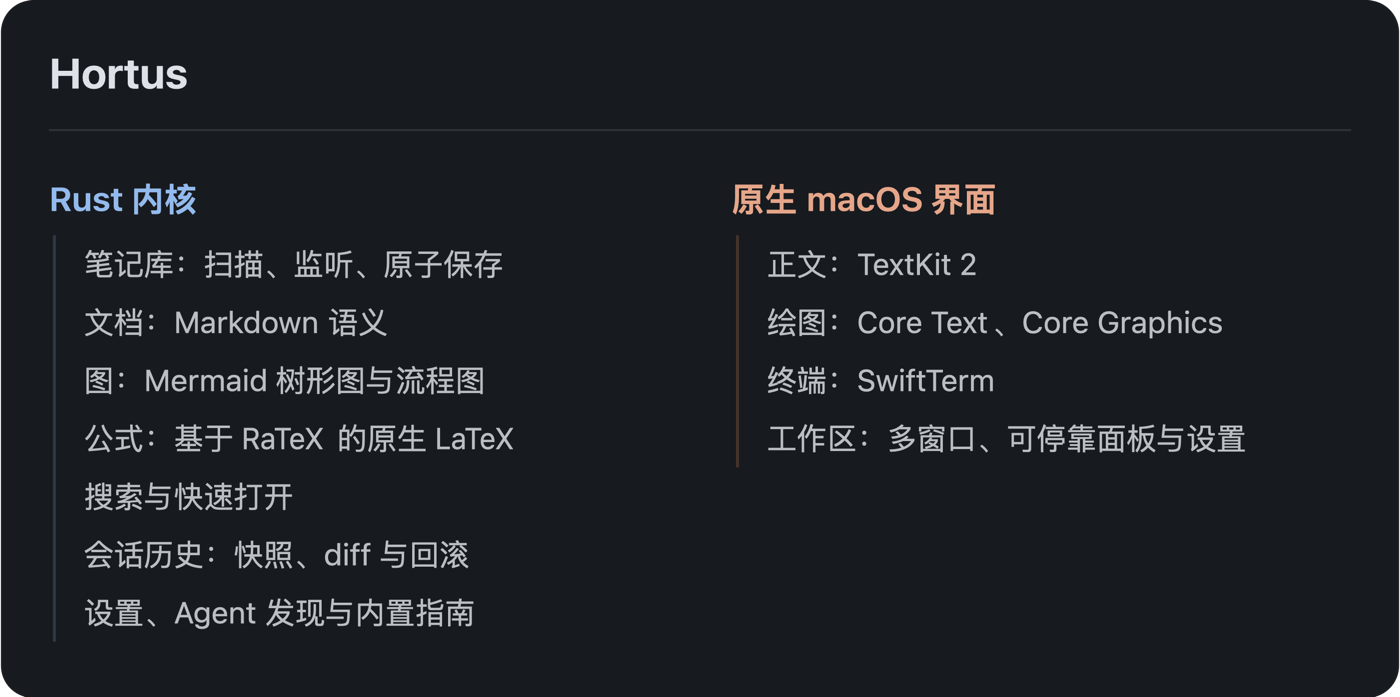
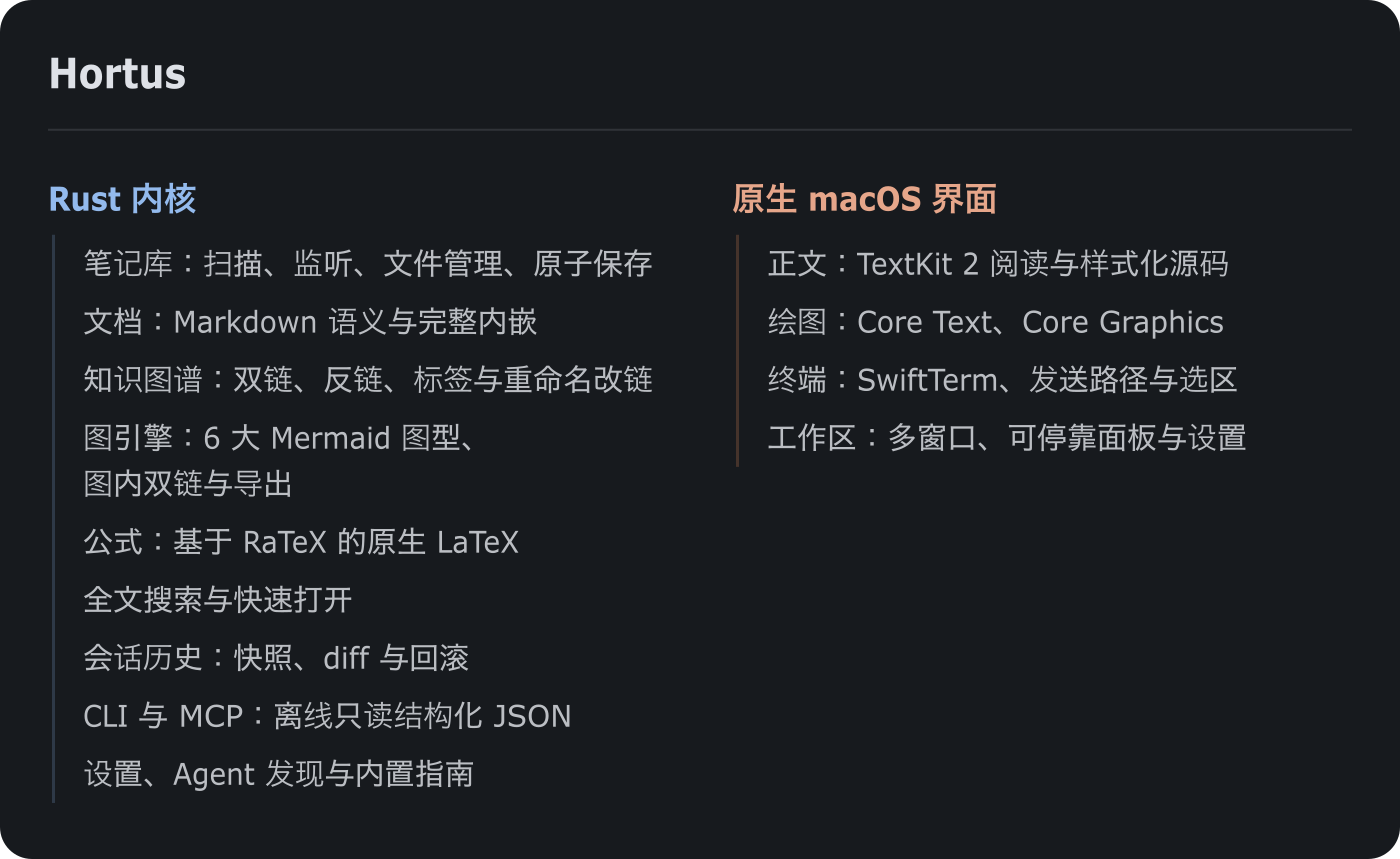
更新版本至 0.5.0 并修订中英文 README 与架构图

diff --git a/apps/macos/Sources/Hortus/App.swift b/apps/macos/Sources/Hortus/App.swift
@@ -341,7 +341,7 @@ final class AppDelegate: NSObject, NSApplicationDelegate {
 
     func showAboutPanel() {
         let info = Bundle.main.infoDictionary ?? [:]
-        let version = info["CFBundleShortVersionString"] as? String ?? "0.4.0"
+        let version = info["CFBundleShortVersionString"] as? String ?? "0.5.0"
         let build = info["CFBundleVersion"] as? String ?? ""
         // 居中和标题对齐；显式用 labelColor，否则深色模式下默认黑字看不清
         let paragraph = NSMutableParagraphStyle()

diff --git a/tools/check-agent-mcp-and-send.py b/tools/check-agent-mcp-and-send.py
@@ -9,6 +9,7 @@ import hashlib
 import json
 import os
 from pathlib import Path
+import re
 import shutil
 import stat
 import subprocess
@@ -159,7 +160,10 @@ def run_mcp(base, output):
     check(initialize['result']['protocolVersion'] == '2024-11-05', initialize)
     check(initialize['result']['capabilities'] == {'tools': {}, 'resources': {}}, initialize)
     check(initialize['result']['serverInfo']['name'] == 'hortus', initialize)
-    check(initialize['result']['serverInfo']['version'] == '0.4.0', initialize)
+    cargo_version = re.search(
+        r'^version\s*=\s*"([^"]+)"', (ROOT / 'Cargo.toml').read_text(encoding='utf-8'), re.M
+    ).group(1)
+    check(initialize['result']['serverInfo']['version'] == cargo_version, initialize)
     server.notify('notifications/initialized', {})
     check(server.request('ping')['result'] == {}, 'ping')
     fallback = server.request('initialize', {'protocolVersion': '2099-01-01'})

diff --git a/crates/hortus-cli/tests/mcp.rs b/crates/hortus-cli/tests/mcp.rs
@@ -217,7 +217,10 @@ fn lifecycle_lists_and_calls_every_read_only_tool() {
     assert_eq!(initialize["result"]["capabilities"]["tools"], json!({}));
     assert_eq!(initialize["result"]["capabilities"]["resources"], json!({}));
     assert_eq!(initialize["result"]["serverInfo"]["name"], "hortus");
-    assert_eq!(initialize["result"]["serverInfo"]["version"], "0.4.0");
+    assert_eq!(
+        initialize["result"]["serverInfo"]["version"],
+        env!("CARGO_PKG_VERSION")
+    );
 
     server.notify("notifications/initialized", json!({}));
     let ping = server.request("ping", Value::Null);

diff --git a/README.md b/README.md
@@ -1,7 +1,7 @@
 <h1>Hortus</h1>
 <p><strong><a href="README.zh-CN.md">简体中文</a></strong></p>
 
-Hortus is a native macOS Markdown knowledge viewer built for reading alongside AI agents. Open your notes directly, run command-line agents in a built-in terminal after an automatic full-vault snapshot, review and roll back changes in place, and read large Mermaid diagrams and LaTeX math without leaving the page.
+Hortus is a native macOS Markdown knowledge viewer built for reading alongside AI agents. Open your notes directly, run command-line agents in a built-in terminal after an automatic full-vault snapshot, connect external agents over offline read-only CLI or MCP, review and roll back changes in place, and read six native Mermaid diagram types and LaTeX math without leaving the page.
 
 ![The same 81-node Mermaid tree at 700 px: Mermaid's default layout and Hortus's readable columns](docs/images/mermaid-comparison.png)
 
@@ -9,95 +9,94 @@ Hortus is a native macOS Markdown knowledge viewer built for reading alongside A
 
 ## Why Hortus
 
-Most note apps are built around typing. As agents draft, organize, and update more of your notes, you spend more time reading, verifying diffs, and keeping large diagrams legible. Hortus puts reading first, snapshots your vault before an agent runs, and keeps editing one keystroke away.
+Most note apps are built around typing. As agents draft, organize, and update more of your notes, you spend more time reading, verifying diffs, and keeping large diagrams legible. Hortus puts reading first, snapshots your vault before an agent runs, exposes your knowledge graph over offline CLI and MCP, and keeps editing one keystroke away.
 
 | | Typical write-first note app | Hortus |
 |---|---|---|
 | Opening a note | Opens in an editor | Opens in a reading view; `⌘E` switches to editing |
-| Working with an agent | A plugin, or a terminal in another window | Built-in shell and agent tabs at the vault root (`⌃\``); changes refresh in place |
+| Working with an agent | A plugin, or a terminal in another window | Built-in shell and agent tabs at the vault root (`⌃\``), send note path (`⌃⌘L`) or selection (`⇧⌃⌘L`), plus offline CLI and `hortus mcp` |
 | Safety net for agent edits | Manual Git commits or separate backups | Automatic full-vault snapshot before launch; review diffs and roll back a hunk, file, or session |
-| Large Mermaid diagrams | Scaled down to fit, or scrolled sideways | Balanced columns for trees, native flowcharts, sequence and state diagrams, plus Focus Mode (`⇧⌘D`) |
-| Runtime and footprint | Often a web app with a bundled browser engine | Native Swift (AppKit and SwiftUI) on a Rust core; 18.0 MiB installed, 1 process |
+| Large Mermaid diagrams | Scaled down to fit, or scrolled sideways | Six native diagram types rendered in Rust + Core Graphics, clickable `[[wikilinks]]`, Focus Mode (`⇧⌘D`), and SVG/PNG/PDF export |
+| Runtime and footprint | Often a web app with a bundled browser engine | Native Swift (AppKit and SwiftUI) on a Rust core; 18.5 MiB installed, 1 process |
 | Your notes folder | Often stores app state and settings too | Holds only your files; settings live in `~/.config/hortus` and snapshots in Application Support |
 
 ## Features
 
-### Reading and native LaTeX math
+### 1. Reading, full embeds, and knowledge graph
 
 <picture>
   <source media="(prefers-color-scheme: dark)" srcset="docs/images/workspace-reading-dark.png">
   <img alt="Hortus reading view showing callouts, an aligned table, a code block, and native inline and display LaTeX math" src="docs/images/workspace-reading-light.png" width="800">
 </picture>
 
-- Headings, lists, tasks, quotes, callouts, footnotes, code blocks, tables, and local images render natively with Markdown markers and comments (`<!-- … -->` and `%% … %%`) hidden. YAML frontmatter displays as compact properties.
-- Inline (`$…$`) and display (`$$…$$`) LaTeX formulas typeset natively via RaTeX and Core Text, including inside lists, quotes, callouts, and tables, following light and dark appearance. Selecting and copying text preserves the original `$` or `$$` LaTeX source, VoiceOver reads formulas in reading order, and malformed formulas show their source and reason in place without breaking the rest of the note.
-- Tables fit the note width while keeping column alignment, and wide tables scroll sideways inside the table. Images preserve aspect ratio and open in Quick Look on click.
-- Tick a task checkbox in the reading view to write the change back to the file. Click `[[wikilinks]]` (including heading targets) and `#tags` directly in reading view, right-click to copy a block's Markdown source, or jump to headings from the Outline sidebar.
+- **Native reading & LaTeX math.** Headings, lists, interactive tasks, quotes, callouts, footnotes, code blocks, aligned tables (with horizontal scroll for wide tables), and Quick Look images render natively with Markdown markers and comments (`<!-- … -->`, `%% … %%`) hidden. YAML frontmatter displays as compact properties. Inline (`$…$`) and display (`$$…$$`) LaTeX formulas typeset natively via RaTeX and Core Text, preserve raw `$`/`$$` source on copy, support VoiceOver in reading order, and report syntax errors in place.
+- **Full note & diagram embeds.** `![[Note]]`, `![[Note#Heading]]`, `![[Note|Alias]]`, and standalone `![[diagram.mmd]]` render inline as native embedded cards (preserving Markdown, math, images, Mermaid interactions, and nested links) with automatic cycle detection and a 3-level nesting guard.
+- **Knowledge graph & instant lookup.** Click `[[wikilinks]]` (including heading anchors) and `#tags` directly in reading view. Inspect incoming references in **Backlinks** (including Mermaid node links and embeds), filter hierarchical `#tags` in **Tags**, jump by heading in **Outline**, open by title or path with Quick Open (`⌘P`), and run live full-text **Search** (`⇧⌘F`).
 
-### Working safely with an agent
+### 2. Built for AI agents
 
 <picture>
   <source media="(prefers-color-scheme: dark)" srcset="docs/images/changes-review-dark.png">
   <img alt="Hortus Changes panel showing a modified note's inline hunk diff alongside revert controls and file metadata" src="docs/images/changes-review-light.png" width="800">
 </picture>
 
-- Press `⌃\`` to toggle the built-in terminal at the vault root (`HORTUS_VAULT` set to the vault path), press `⌘T` for another shell, or start a configured agent in its own tab. The terminal supports Nerd Font icon fallback and custom monospace fonts.
-- Before launching an agent, Hortus captures a full-vault snapshot (using APFS copy-on-write clones where supported), preserving attachments, permissions, and hidden user files while skipping `.git` and never following symlinks. If the snapshot cannot complete cleanly, the agent does not start.
-- Open **Settings (`⌘,`) → Agent** to scan your login shell `PATH` and common macOS directories for installed CLIs (`omp`, `codex`, `claude`, `gemini`, `opencode`, `aider`, `goose`) without executing any binary, fill the command and argument template with one click, and customize the built-in `{guide}` (also available via `hortus guide`). Launch environments forward your enriched `PATH` even when Hortus starts from Finder or Dock.
-- Agents and scripts can query any vault offline in structured JSON via the `hortus` CLI: `search`, `backlinks`, `links`, `tags`, `outline`, `orphans`, `broken-links`, and `mermaid check` / `render`.
-- External edits refresh open notes in place while keeping your reading position. Inspect additions, modifications, deletions, renames, binary metadata, and line-level hunks in the **Changes** panel, roll back a single hunk, a whole file, or an entire session (with file-digest checks before writing), and remove finished snapshots from History.
+- **Built-in terminal & safe context sending.** Press `⌃\`` to open the built-in terminal at the vault root (`HORTUS_VAULT` set automatically), `⌘T` for another shell, or `⌥⌘T` for an isolated agent tab with Nerd Font fallback and custom monospace fonts. Send the active note's quoted relative path (`⌃⌘L`) or current reading/editing selection (`⇧⌃⌘L`) straight into the terminal using sanitized bracketed paste — never auto-executing Enter.
+- **Full-vault snapshots, diff review & rollback.** Before an agent launches, Hortus captures a full-vault snapshot (APFS copy-on-write clones where supported, keeping attachments and permissions, skipping `.git`, never following symlinks) and refuses to launch if snapshotting fails. External edits refresh open notes in place; review line-level hunks, renames, and metadata in **Changes** and roll back a single hunk, file, or entire session with digest verification.
+- **Agent discovery & guide.** **Settings (`⌘,`) → Agent** scans your login shell `PATH` and common macOS paths for installed CLIs (`omp`, `codex`, `claude`, `gemini`, `opencode`, `aider`, `goose`) without executing any binary, fills launch templates with one click, and lets you customize the built-in `{guide}` (also readable via `hortus guide`).
+- **Offline read-only CLI & MCP Server (`hortus mcp`).** Query any vault offline as structured JSON with `hortus search`, `backlinks`, `links`, `tags`, `outline`, `orphans`, `broken-links`, `mermaid check`, `mermaid render`, and `guide`, or connect any MCP-compatible agent over stdio:
 
-### Mermaid diagrams
+```json
+{
+  "mcpServers": {
+    "hortus": {
+      "command": "hortus",
+      "args": ["mcp", "--vault", "/path/to/your/vault"]
+    }
+  }
+}
+```
+
+`hortus mcp` exposes 9 read-only tools (`hortus_search`, `hortus_backlinks`, `hortus_links`, `hortus_tags`, `hortus_outline`, `hortus_orphans`, `hortus_broken_links`, `hortus_mermaid_check`, `hortus_guide`) and the `hortus://guide` resource with zero disk writes and zero network access.
+
+### 3. Native Mermaid engine
 
 <picture>
   <source media="(prefers-color-scheme: dark)" srcset="docs/images/flowchart-dark.png">
   <img alt="Hortus native Mermaid flowchart rendering with orthogonal edge routing, diamond decisions, edge labels, and interactive tasks below" src="docs/images/flowchart-light.png" width="800">
 </picture>
 
-- Hortus parses and lays out Mermaid diagrams in Rust and draws them natively with Core Text and Core Graphics, keeping vector rendering crisp at every window size.
-- When a mindmap or tree-shaped flowchart grows wider than the note, the root becomes a title and top-level branches flow into balanced columns at body text size. Resize the window to reflow columns; click any branch to fold or unfold it, and Hortus remembers folded state per diagram.
-- General flowcharts render branches, merges, loops, long chains, multiple roots, common node shapes, edge labels, class styles, top-level subgraphs, and `~~~` invisible ordering links with orthogonal routing.
-- Native **sequence diagrams** (`sequenceDiagram`) and **state diagrams** (`stateDiagram-v2` / `stateDiagram`) render participants, blocks, notes, activations, composite states, concurrent regions, fork/join, choice, and bidirectional or self-loop transitions using the same vector pipeline.
-- **Bidirectional source linking & Focus Mode (`⇧⌘D`)**: moving the cursor in Mermaid source highlights the matching diagram element, and `⌘-click` (or the context menu) jumps back to source without relayout. Open any diagram in Focus Mode for 25%–400% vector zoom, pan, a minimap, `⌘F` node search, and per-diagram cached viewports.
-- Unsupported diagram types stay visible as Mermaid source. You can validate Mermaid blocks with `hortus mermaid check` or export SVG, layout metrics, and semantic scenes offline with `hortus mermaid render`.
+- **Six native diagram types, zero WebView.** Parsed and laid out in Rust and drawn natively with Core Text and Core Graphics:
+  - **Mindmaps & tree flowcharts:** responsive balanced columns at body text size with per-diagram persisted branch folding.
+  - **General flowcharts:** branches, merges, loops, long chains, multi-root graphs, node shapes, edge labels, `classDef` styles, top-level subgraphs, and `~~~` ordering links with orthogonal routing.
+  - **Sequence diagrams (`sequenceDiagram`):** participants, control blocks, notes, activations, and mirrored bottom headers on tall diagrams.
+  - **State diagrams (`stateDiagram-v2` / `stateDiagram`):** start/end, composite states, concurrent regions, fork/join, choice, notes, and bidirectional or self-loop transitions.
+  - **Class diagrams (`classDiagram`):** three-section UML cards, generics, stereotypes, visibility markers, `namespace` containers, all 8 relation types with cardinalities, and notes.
+  - **Entity-relationship diagrams (`erDiagram`):** typed three-column attributes with `PK`/`FK`/`UK` badges, full Crow's Foot cardinalities, solid/dashed relations, and self-relations.
+- **In-diagram `[[wikilinks]]`, source linking & Focus Mode (`⇧⌘D`).** Click `[[Note]]`, `[[Note#Heading]]`, or `[[Note|Alias]]` inside diagram nodes to navigate directly (and track references in Backlinks); `⌘-click` or use the context menu to jump to Mermaid source without relayout; open Focus Mode (`⇧⌘D`) for 25%–400% vector zoom, pan, minimap, `⌘F` node search, and cached per-diagram viewports.
+- **Native export & standalone `.mmd` files.** Export any diagram to **SVG**, **2× Retina PNG**, or **vector PDF** from the context menu or Focus Mode top bar, or render/check `.md` and `.mmd` files offline via `hortus mermaid check` and `hortus mermaid render`. Unsupported diagram types stay visible as source.
 
-### Editing, file management, and safe saving
+### 4. Editing, files, multi-window, and privacy
 
-- Press `⌘E` to switch to styled Markdown source on TextKit 2: markers stay visible in a muted color while headings, emphasis, links, and callouts keep their formatting. Type `[[` for native wikilink completion, `⌘-click` links to navigate, and press `⌘E` again to return to reading at the same position.
-- Create notes and folders, rename files with an automatic link-update preview across the vault, and move items to Trash from the Files sidebar or menu while keeping open tabs, undo history, and unsaved drafts safe across windows.
-- Native macOS typing, input-method composition, undo/redo, and find and replace (`⌘F`, `⌥⌘F`) work across notes. Press `⌥⌘T` to align Markdown table columns in source.
-- Changes auto-save one second after typing stops, and save immediately on `⌘S`, tab switch, or focus loss. Atomic content replacement keeps creation dates, Finder tags, extended attributes, file permissions, line endings, and BOM intact.
-- If a note changes on disk while you have unsaved edits, Hortus lets you keep the disk copy, keep yours, or save yours as a conflict copy; failed saves retain a recovery draft.
-
-### Knowledge panels, multi-window workspace, and search
-
-- Open multiple vaults in separate windows (reopening an open vault brings its window forward), or drag a note tab out into its own window on the same vault with unsaved edits, selection, and undo history preserved. Open windows, tabs, view modes, and panel layouts restore on relaunch.
-- Files, Search, Outline, Backlinks, Tags, Changes, Shell, and Agent share a single level of dockable tool tabs across the left sidebar (`⌃⌘S`), right sidebar (`⌥⌘I`), and bottom panel (`⌘J`), each with a `+` menu.
-- **Backlinks** shows every note referencing the current note (including links inside Mermaid diagrams and embeds); **Tags** groups hierarchical `#tags` with counts and instant filtering.
-- Quick Open (`⌘P`) matches note titles and paths as you type; live full-text Search (`⇧⌘F`) highlights matches across the vault and updates as files change.
-
-### Your files and settings
-
-- Open any ordinary Markdown folder, including an existing Obsidian vault (`.obsidian` is ignored), alongside Git, scripts, or other editors.
-- **Settings (`⌘,`)** syncs two-way with `~/.config/hortus/config.toml` while preserving comments, manual entries, and unknown keys, and warns before overwriting external edits. Caches stay in `~/Library/Caches/Hortus`, and agent session snapshots live in `~/Library/Application Support/Hortus/agent-sessions/`.
-- Hortus works completely offline with zero runtime networking or telemetry, and follows your system language (English and Simplified Chinese) and light or dark appearance.
+- **Styled Markdown editing (`⌘E`).** TextKit 2 editor keeps markers visible in muted tone while styling headings, emphasis, links, and callouts. Type `[[` for native single-undo wikilink completion, `⌘-click` links to navigate, use native IME, undo/redo, find and replace (`⌘F`, `⌥⌘F`), and return to reading at the same scroll position.
+- **Vault file management & atomic saving.** Create notes and folders, rename notes or **whole folders** with an automatic vault-wide link-update preview (updating notes, embeds, and explicit attachment paths while protecting unsaved tabs), and move items to Trash across synced windows. Auto-save runs after 1 second of idle or on `⌘S`/tab switch/blur; atomic content replacement preserves creation dates, Finder tags, extended attributes, permissions, line endings, and BOM, with conflict resolution and recovery drafts.
+- **Multi-window, dockable workspace & local-first privacy.** Open multiple vaults in separate windows or tear tabs out into new windows on the same vault. Files, Search, Outline, Backlinks, Tags, Changes, Shell, and Agent share a single tier of dockable tool tabs across left (`⌃⌘S`), right (`⌥⌘I`), and bottom (`⌘J`) panels. Open any ordinary Markdown folder or Obsidian vault (`.obsidian` is ignored); **Settings (`⌘,`)** syncs two-way with `~/.config/hortus/config.toml` while preserving comments. Completely offline with zero networking or telemetry, in English and Simplified Chinese, following light and dark appearance.
 
 ## Performance
 
 Measured on an Apple M3 MacBook Air (macOS 27.2.1) using the original [CC0 demo vault](fixtures/demo-vault/README.md); each figure is the median of five runs. See `tools/compare-obsidian.py` for the measurement setup.
 
-| Metric | Hortus 0.4.0 |
+| Metric | Hortus 0.5.0 |
 |---|---|
-| Installed size (`du`) | 18.0 MiB |
-| Warm launch to note title | ~0.8 s |
-| Memory with 81-node demo diagram open | ~150 MiB |
+| Installed size (`du`) | 18.5 MiB |
+| Warm launch to note title | ~0.4 s |
+| Memory with 81-node demo diagram open | ~145 MiB |
 | Processes | 1 native process |
 
 ## Install
 
-Requires **macOS 27 or later and an Apple Silicon Mac**. Version 0.4.0 uses ad-hoc signing and is not notarized.
+Requires **macOS 27 or later and an Apple Silicon Mac**. Version 0.5.0 uses ad-hoc signing and is not notarized.
 
-1. Download `Hortus-0.4.0-arm64.dmg` from [Releases](https://github.com/groundgrounder/Hortus/releases), open it, and drag Hortus into Applications.
+1. Download `Hortus-0.5.0-arm64.dmg` from [Releases](https://github.com/groundgrounder/Hortus/releases), open it, and drag Hortus into Applications.
 2. Open Hortus. macOS may block the first launch because it cannot verify the developer. Choose either method below to allow this copy:
 
 **System Settings:** After the blocked attempt, click **Done**, open **System Settings → Privacy & Security**, find the message about Hortus, and click **Open Anyway**. Follow the confirmation and authentication prompts, then launch Hortus again if needed.
@@ -113,11 +112,11 @@ Both methods were tested on macOS 27.2. Prompt wording may vary on other macOS v
 
 ## Architecture
 
-A Rust workspace (`crates/`) handles vault watching, file operations, atomic saving, Markdown semantics, link/tag graph indexing, Mermaid layout, RaTeX math, full-text search, session snapshots/diff/rollback, configuration, and read-only CLI queries. The macOS app (`apps/macos/`) is built in Swift with AppKit and SwiftUI and calls the Rust core through UniFFI. The diagram below was laid out and rendered by Hortus itself with `hortus mermaid render`.
+A Rust workspace (`crates/`) handles vault watching, file operations, atomic saving, Markdown semantics and embeds, link/tag graph indexing, native layout for six Mermaid diagram types, RaTeX math, full-text search, session snapshots/diff/rollback, configuration, and offline read-only CLI and MCP queries. The macOS app (`apps/macos/`) is built in Swift with AppKit and SwiftUI and calls the Rust core through UniFFI. The diagram below was laid out and rendered by Hortus 0.5.0 itself with `hortus mermaid render`.
 
 <picture>
   <source media="(prefers-color-scheme: dark)" srcset="docs/images/architecture-dark.png">
-  <img alt="Hortus architecture: a Rust core (vault, documents, diagrams, math, search, history, settings) and a native macOS UI (TextKit 2, Core Text and Core Graphics, SwiftTerm, multi-window workspace)" src="docs/images/architecture-light.png" width="700">
+  <img alt="Hortus architecture: a Rust core (vault, documents and embeds, knowledge links, 6 Mermaid types, math, search, history, CLI and MCP, settings) and a native macOS UI (TextKit 2, Core Text and Core Graphics, SwiftTerm, multi-window workspace)" src="docs/images/architecture-light.png" width="700">
 </picture>
 
 <details>
@@ -130,23 +129,27 @@ flowchart TD
   ui[Native macOS UI]
   app --> core
   app --> ui
-  vault[Vault: scan, watch, atomic save]
-  doc[Documents: Markdown semantics]
-  diagram[Diagrams: Mermaid trees and flowcharts]
+  vault[Vault: scan, watch, file ops, atomic save]
+  doc[Documents: Markdown semantics and embeds]
+  links[Links: wikilinks, backlinks, tags, rename]
+  diagram[Diagrams: 6 Mermaid types, links, SVG/PNG/PDF]
   math[Math: native LaTeX via RaTeX]
   search[Search and Quick Open]
   history[History: snapshots, diff, rollback]
+  cli[CLI and MCP: offline read-only JSON]
   config[Settings, agent discovery and guide]
   core --> vault
   core --> doc
+  core --> links
   core --> diagram
   core --> math
   core --> search
   core --> history
+  core --> cli
   core --> config
-  text[Text: TextKit 2]
+  text[Text: TextKit 2 reading and styled source]
   draw[Drawing: Core Text, Core Graphics]
-  term[Terminal: SwiftTerm]
+  term[Terminal: SwiftTerm, send path/selection]
   panels[Workspace: multi-window, dockable panels, Settings]
   ui --> text
   ui --> draw
@@ -158,15 +161,15 @@ flowchart TD
 
 ## Known issues
 
-- Version 0.4.0 is ad-hoc signed. Updating or re-downloading the app may require first-launch approval again.
+- Version 0.5.0 is ad-hoc signed. Updating or re-downloading the app may require first-launch approval again.
 - When a terminal session accesses protected folders such as Documents, macOS requests permission on behalf of Hortus. App updates may require re-granting access in **Privacy & Security → Files & Folders**.
-- Mermaid support covers mindmaps, flowcharts (with branches, merges, loops, and top-level subgraphs), sequence diagrams, and state diagrams (`stateDiagram-v2` / `stateDiagram`). Unsupported diagram types stay visible as source.
-- Embedded images display in full; embedded notes and other files currently show their name in place.
+- Mermaid support covers mindmaps, tree and general flowcharts (including top-level subgraphs), sequence diagrams, state diagrams (`stateDiagram-v2` / `stateDiagram`), class diagrams (`classDiagram`), and entity-relationship diagrams (`erDiagram`). Unsupported diagram types (such as `gantt` or `pie`) stay visible as source.
 
 ## Roadmap
 
-- Full embedded notes and additional Mermaid diagram types.
-- Linux desktop app sharing the same Rust core.
+- Native Linux desktop app (GTK4 + libadwaita + VTE) sharing the same Rust core, with `deb`, `rpm`, and Nix flake packaging.
+- Cross-platform polish and `1.0.0` macOS + Linux release.
+- iOS reading app and additional diagram refinements after `1.0.0`.
 
 <details>
 <summary>Continuous integration</summary>
